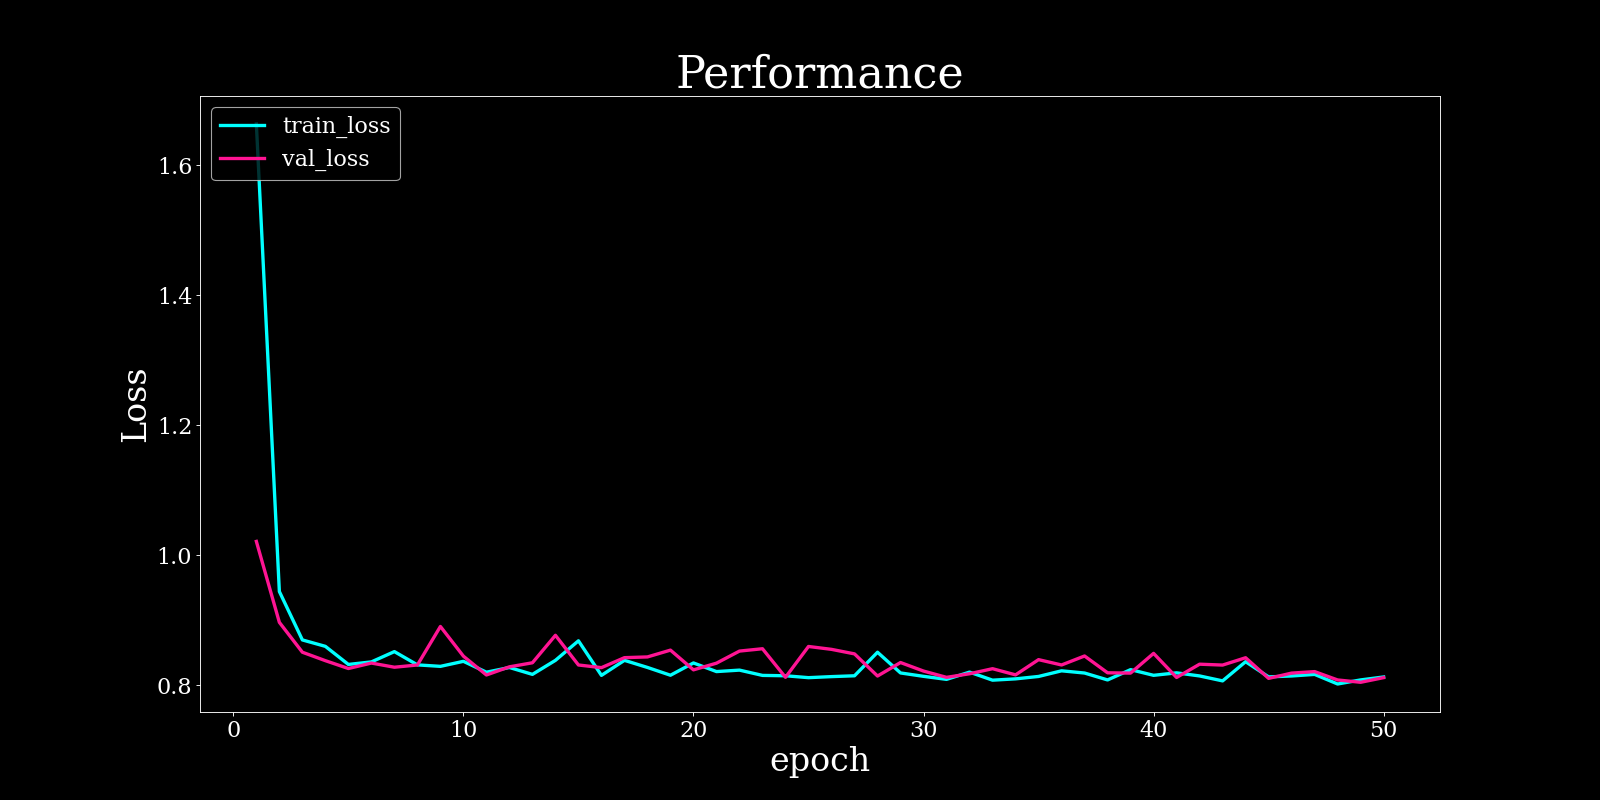
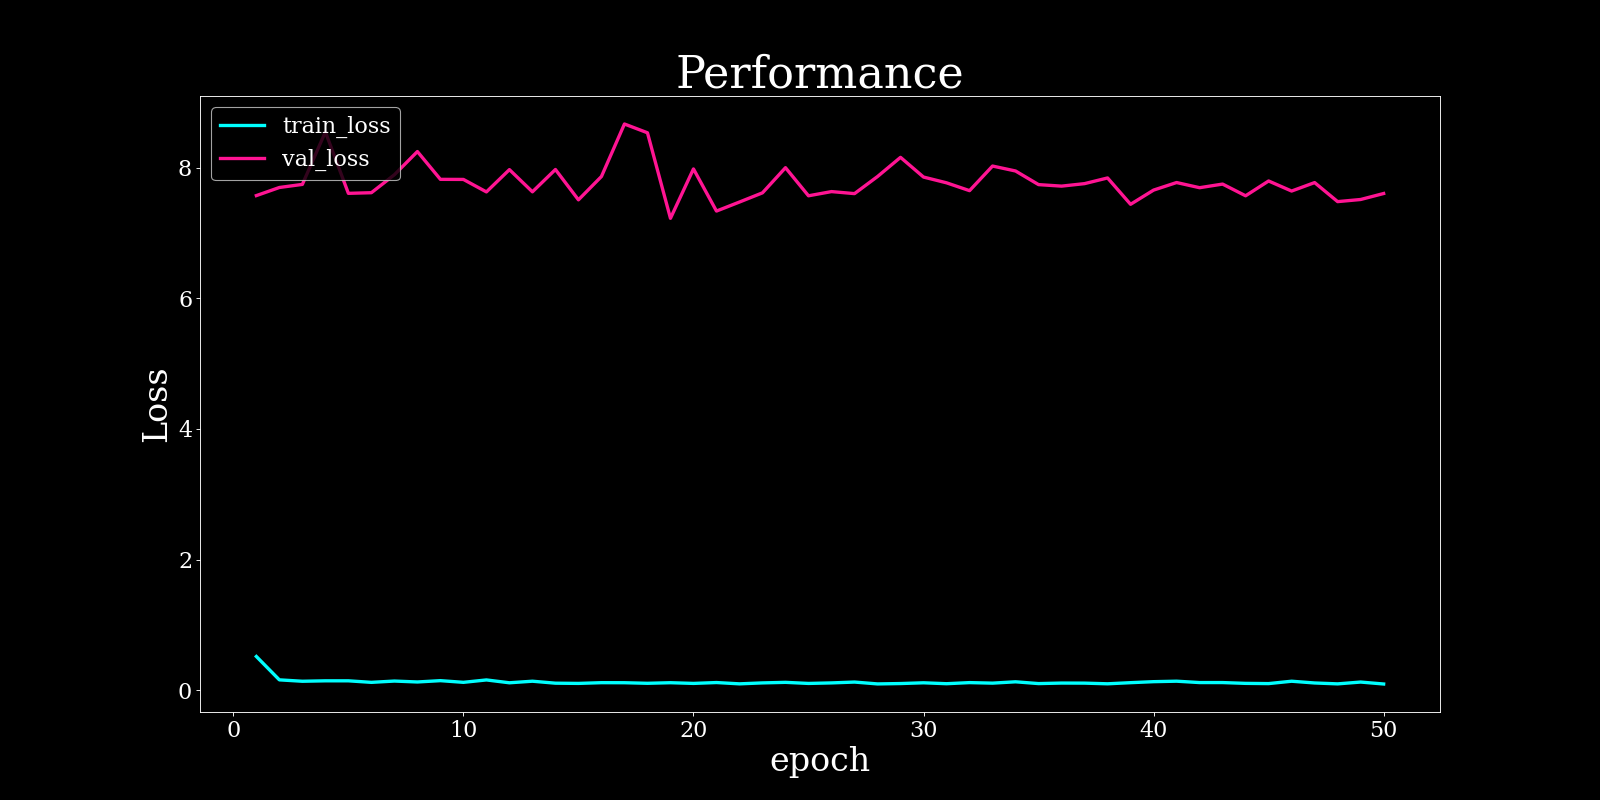
unet test on colab

diff --git a/src/models/model.py b/src/models/model.py
@@ -131,9 +131,9 @@ class AEModel(nn.Module):
 class EndPhys(nn.Module):
     def __init__(self, dt = 0.2, initw = False):
         super().__init__()
-        self.encoder = encoders.EncoderMLP()
+        #self.encoder = encoders.EncoderMLP()
         #self.encoder = encoders.EncoderCNN(in_channels=1, n_iter=3)
-        #self.encoder = encoders.EncoderUNET(in_channels=1)
+        self.encoder = encoders.EncoderUNET(in_channels=1)
         self.pModel = pModel()
 
         self.dt = dt
